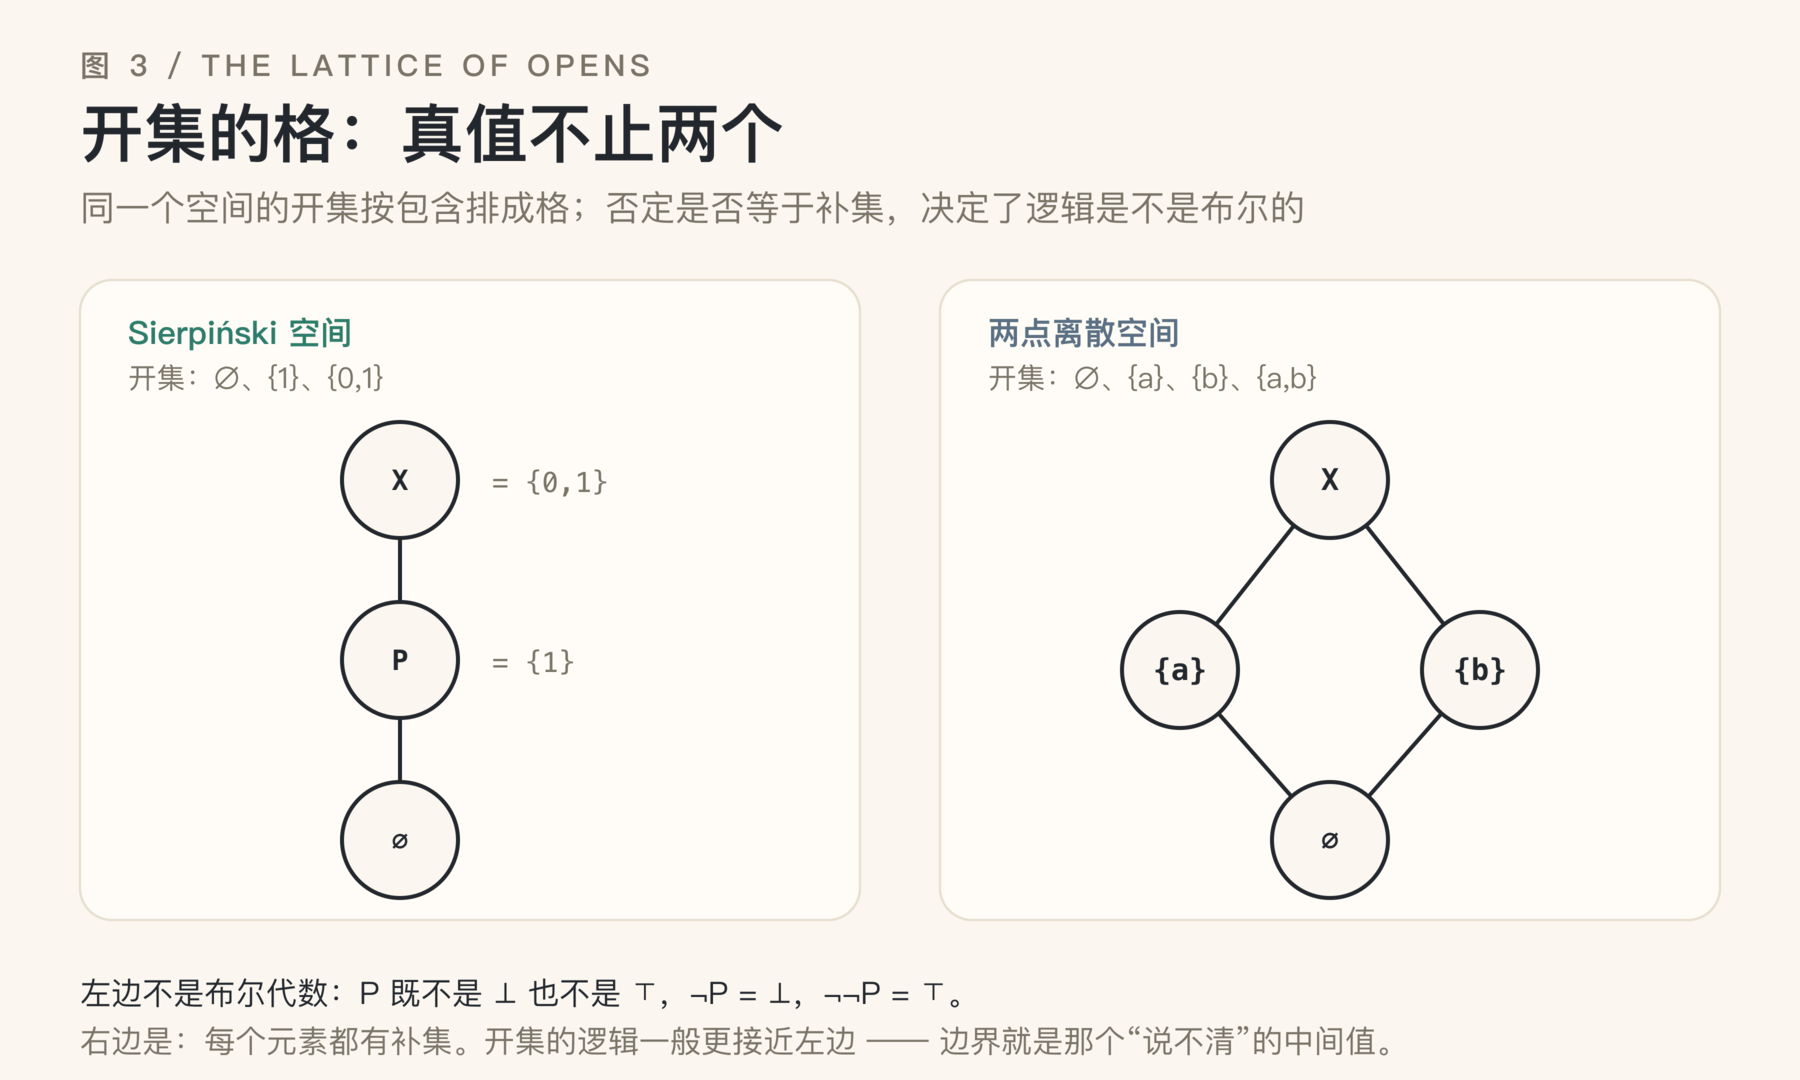
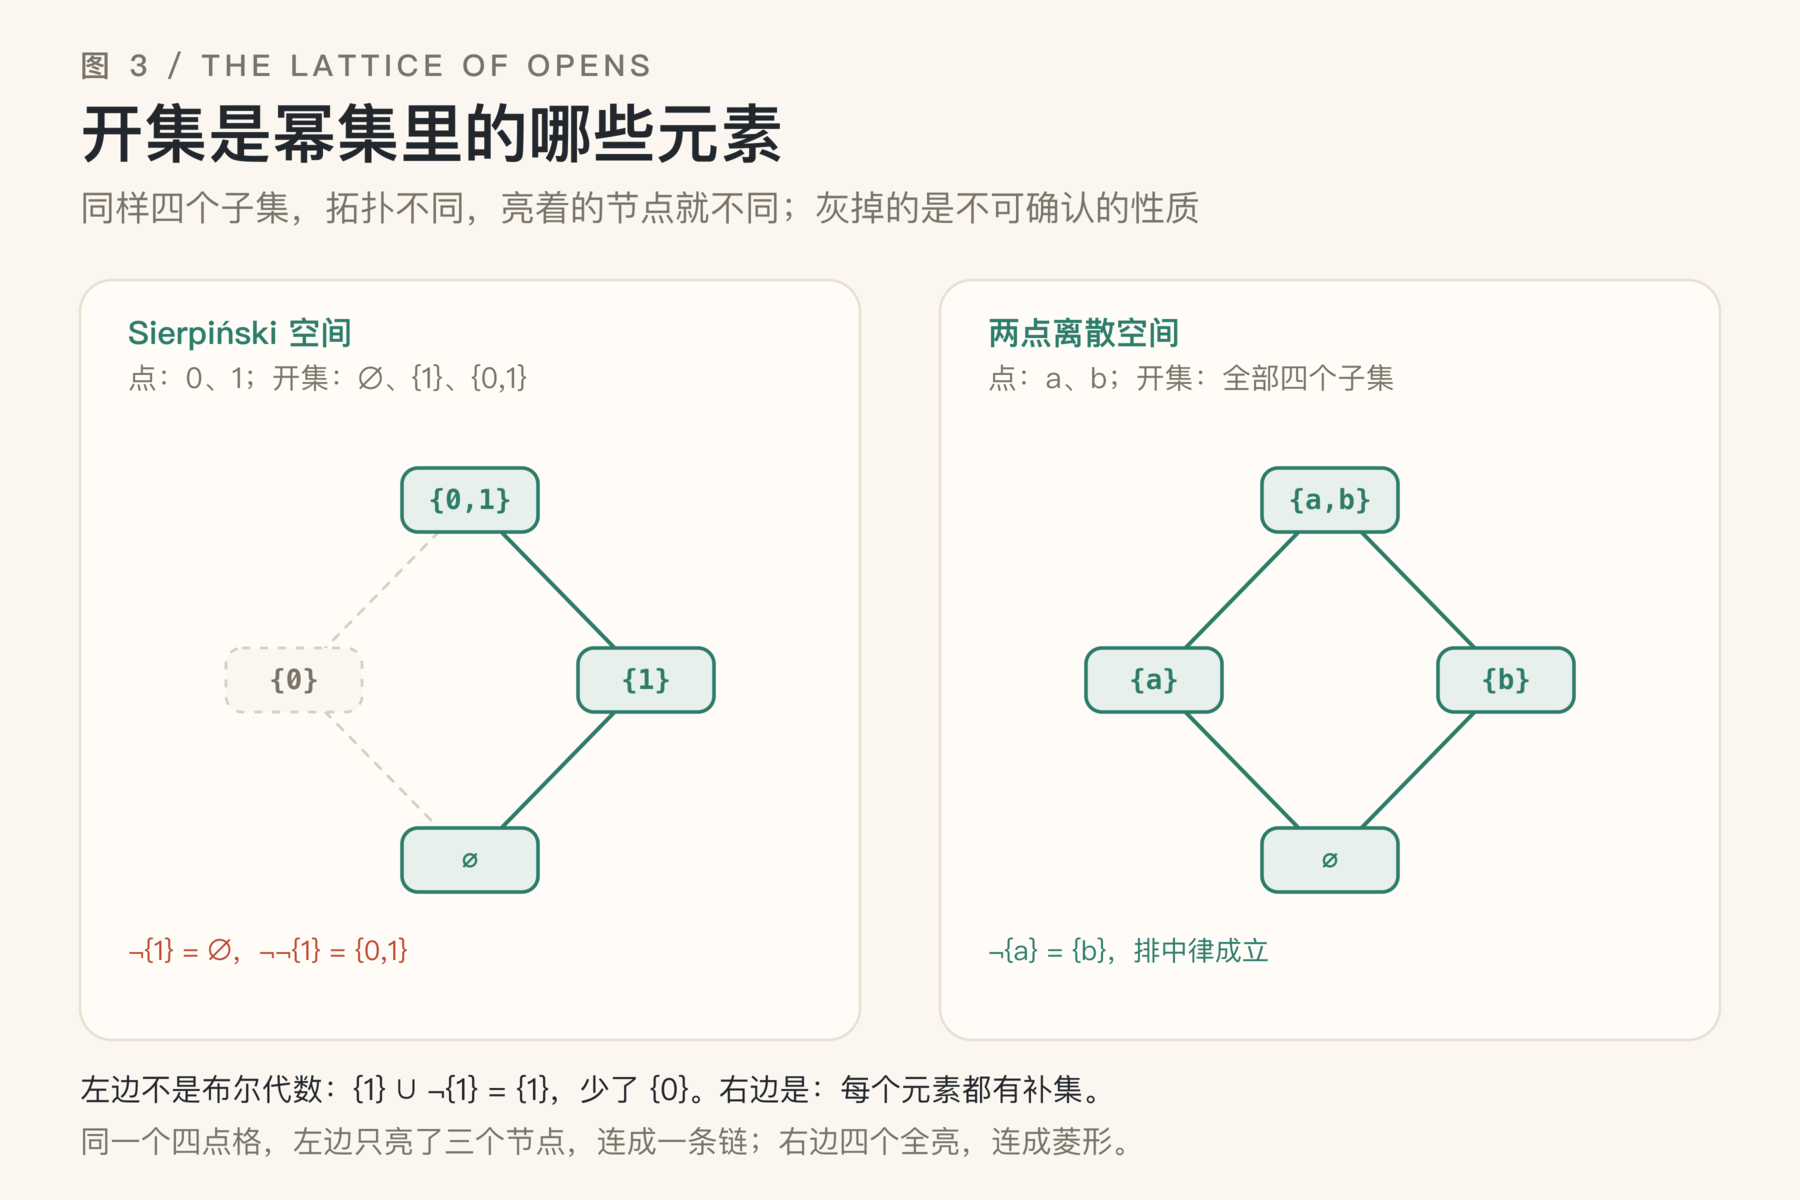
docs: 图 3 对应开集定义，并交代 □/◇ 的来历
图 3 改成“幂集里哪些子集是开集”的对照：同一个四点格，
Sierpiński 只亮三个（链），两点离散四个全亮（菱形），
灰节点就是不可确认的性质；正文补一段把它和 frame 对上。

§3 那张三态表里原先直接出现 □/◇，没有出处。现在去掉那一列，
在 S4 之前单独引入模态记号：必然/可能 → int/cl，附对照表和读法，
并说明为什么偏偏是内部与闭包（S4 + McKinsey–Tarski）。

diff --git a/figures/topology.py b/figures/topology.py
@@ -289,54 +289,61 @@ def fig_tree():
 
 # ------------------------------------------------------------------ figure 2
 def fig_lattice():
-    h = 540
+    h = 600
     s = SVG(W, h)
     kicker(s, "图 3 / THE LATTICE OF OPENS")
-    title(s, "开集的格：真值不止两个",
-          "同一个空间的开集按包含排成格；否定是否等于补集，决定了逻辑是不是布尔的")
+    title(s, "开集是幂集里的哪些元素",
+          "同样四个子集，拓扑不同，亮着的节点就不同；灰掉的是不可确认的性质")
 
-    panel(s, 40, 140, 390, 320)
-    s.text(64, 172, "Sierpiński 空间", size=16, fill=GREEN, weight="700")
-    s.text(64, 194, "开集：∅、{1}、{0,1}", size=12.5, fill=MUTED)
+    def draw_panel(x0, name, sub, labels, open_labels, note, note_color):
+        panel(s, x0, 140, 390, 380)
+        s.text(x0 + 24, 172, name, size=16, fill=GREEN, weight="700")
+        s.text(x0 + 24, 194, sub, size=12.5, fill=MUTED)
+        cx = x0 + 195
+        top, left, right, bot = (cx, 250), (cx - 88, 340), (cx + 88, 340), (cx, 430)
 
-    cx = 200
-    ys = [240, 330, 420]
-    labels = ["X", "P", "∅"]
-    for i, (y, lab) in enumerate(zip(ys, labels)):
-        if i < 2:
-            s.line((cx, y + 30), (cx, ys[i + 1] - 30), color=INK, sw=2)
-        s.circle(cx, y, 29, fill=PAPER, stroke=INK, sw=2)
-        s.text(cx, y + 5, lab, size=14, fill=INK, anchor="middle", family=MONO, weight="600")
-    s.text(cx + 46, 246, "= {0,1}", size=12, fill=MUTED, family=MONO)
-    s.text(cx + 46, 336, "= {1}", size=12, fill=MUTED, family=MONO)
+        def is_open(lab):
+            return lab in open_labels
 
+        def edge(a, b):
+            both = is_open(a[2]) and is_open(b[2])
+            dx, dy = b[0] - a[0], b[1] - a[1]
+            L = (dx * dx + dy * dy) ** 0.5
+            ux, uy = dx / L, dy / L
+            s.line((a[0] + ux * 22, a[1] + uy * 22),
+                   (b[0] - ux * 22, b[1] - uy * 22),
+                   color=GREEN if both else LINE, sw=2 if both else 1.4,
+                   dash=None if both else "4 5")
 
+        nodes = [(*top, labels[0]), (*left, labels[1]),
+                 (*right, labels[2]), (*bot, labels[3])]
+        edge(nodes[0], nodes[1]); edge(nodes[0], nodes[2])
+        edge(nodes[1], nodes[3]); edge(nodes[2], nodes[3])
 
-    panel(s, 470, 140, 390, 320)
-    s.text(494, 172, "两点离散空间", size=16, fill=BLUE, weight="700")
-    s.text(494, 194, "开集：∅、{a}、{b}、{a,b}", size=12.5, fill=MUTED)
+        for x, y, lab in nodes:
+            op = is_open(lab)
+            s.rect(x - 34, y - 16, 68, 32, rx=8,
+                   fill="#E8F0EC" if op else PAPER,
+                   stroke=GREEN if op else LINE, sw=1.8 if op else 1.4,
+                   dash=None if op else "4 5")
+            s.text(x, y + 4.5, lab, size=12, fill=GREEN if op else MUTED,
+                   anchor="middle", family=MONO, weight="600")
 
-    top = (665, 240)
-    left = (590, 335)
-    right = (740, 335)
-    bot = (665, 420)
-    def link(a, b):
-        dx, dy = b[0] - a[0], b[1] - a[1]
-        L = (dx * dx + dy * dy) ** 0.5
-        ux, uy = dx / L, dy / L
-        s.line((a[0] + ux * 29, a[1] + uy * 29),
-               (b[0] - ux * 29, b[1] - uy * 29), color=INK, sw=2)
-    link(bot, left); link(bot, right); link(left, top); link(right, top)
-    for (x, y), lab in [((665, 240), "X"), ((590, 335), "{a}"),
-                        ((740, 335), "{b}"), ((665, 420), "∅")]:
-        s.circle(x, y, 29, fill=PAPER, stroke=INK, sw=2)
-        s.text(x, y + 5, lab, size=13, fill=INK, anchor="middle", family=MONO, weight="600")
+        s.text(x0 + 24, 480, note, size=11.8, fill=note_color)
 
+    draw_panel(40, "Sierpiński 空间", "点：0、1；开集：∅、{1}、{0,1}",
+               ["{0,1}", "{0}", "{1}", "∅"],
+               ["{0,1}", "{1}", "∅"],
+               "¬{1} = ∅，¬¬{1} = {0,1}", RED)
+    draw_panel(470, "两点离散空间", "点：a、b；开集：全部四个子集",
+               ["{a,b}", "{a}", "{b}", "∅"],
+               ["{a,b}", "{a}", "{b}", "∅"],
+               "¬{a} = {b}，排中律成立", GREEN)
 
-
-    s.text(40, 502, "左边不是布尔代数：P 既不是 ⊥ 也不是 ⊤，¬P = ⊥，¬¬P = ⊤。", size=13.5, fill=INK)
-    s.text(40, 526, "右边是：每个元素都有补集。开集的逻辑一般更接近左边 —— 边界就是那个“说不清”的中间值。",
-           size=13.5, fill=MUTED)
+    s.text(40, 550, "左边不是布尔代数：{1} ∪ ¬{1} = {1}，少了 {0}。右边是：每个元素都有补集。",
+           size=13.2, fill=INK)
+    s.text(40, 576, "同一个四点格，左边只亮了三个节点，连成一条链；右边四个全亮，连成菱形。",
+           size=13.2, fill=MUTED)
     s.save("topo-02-frame")
 
 
